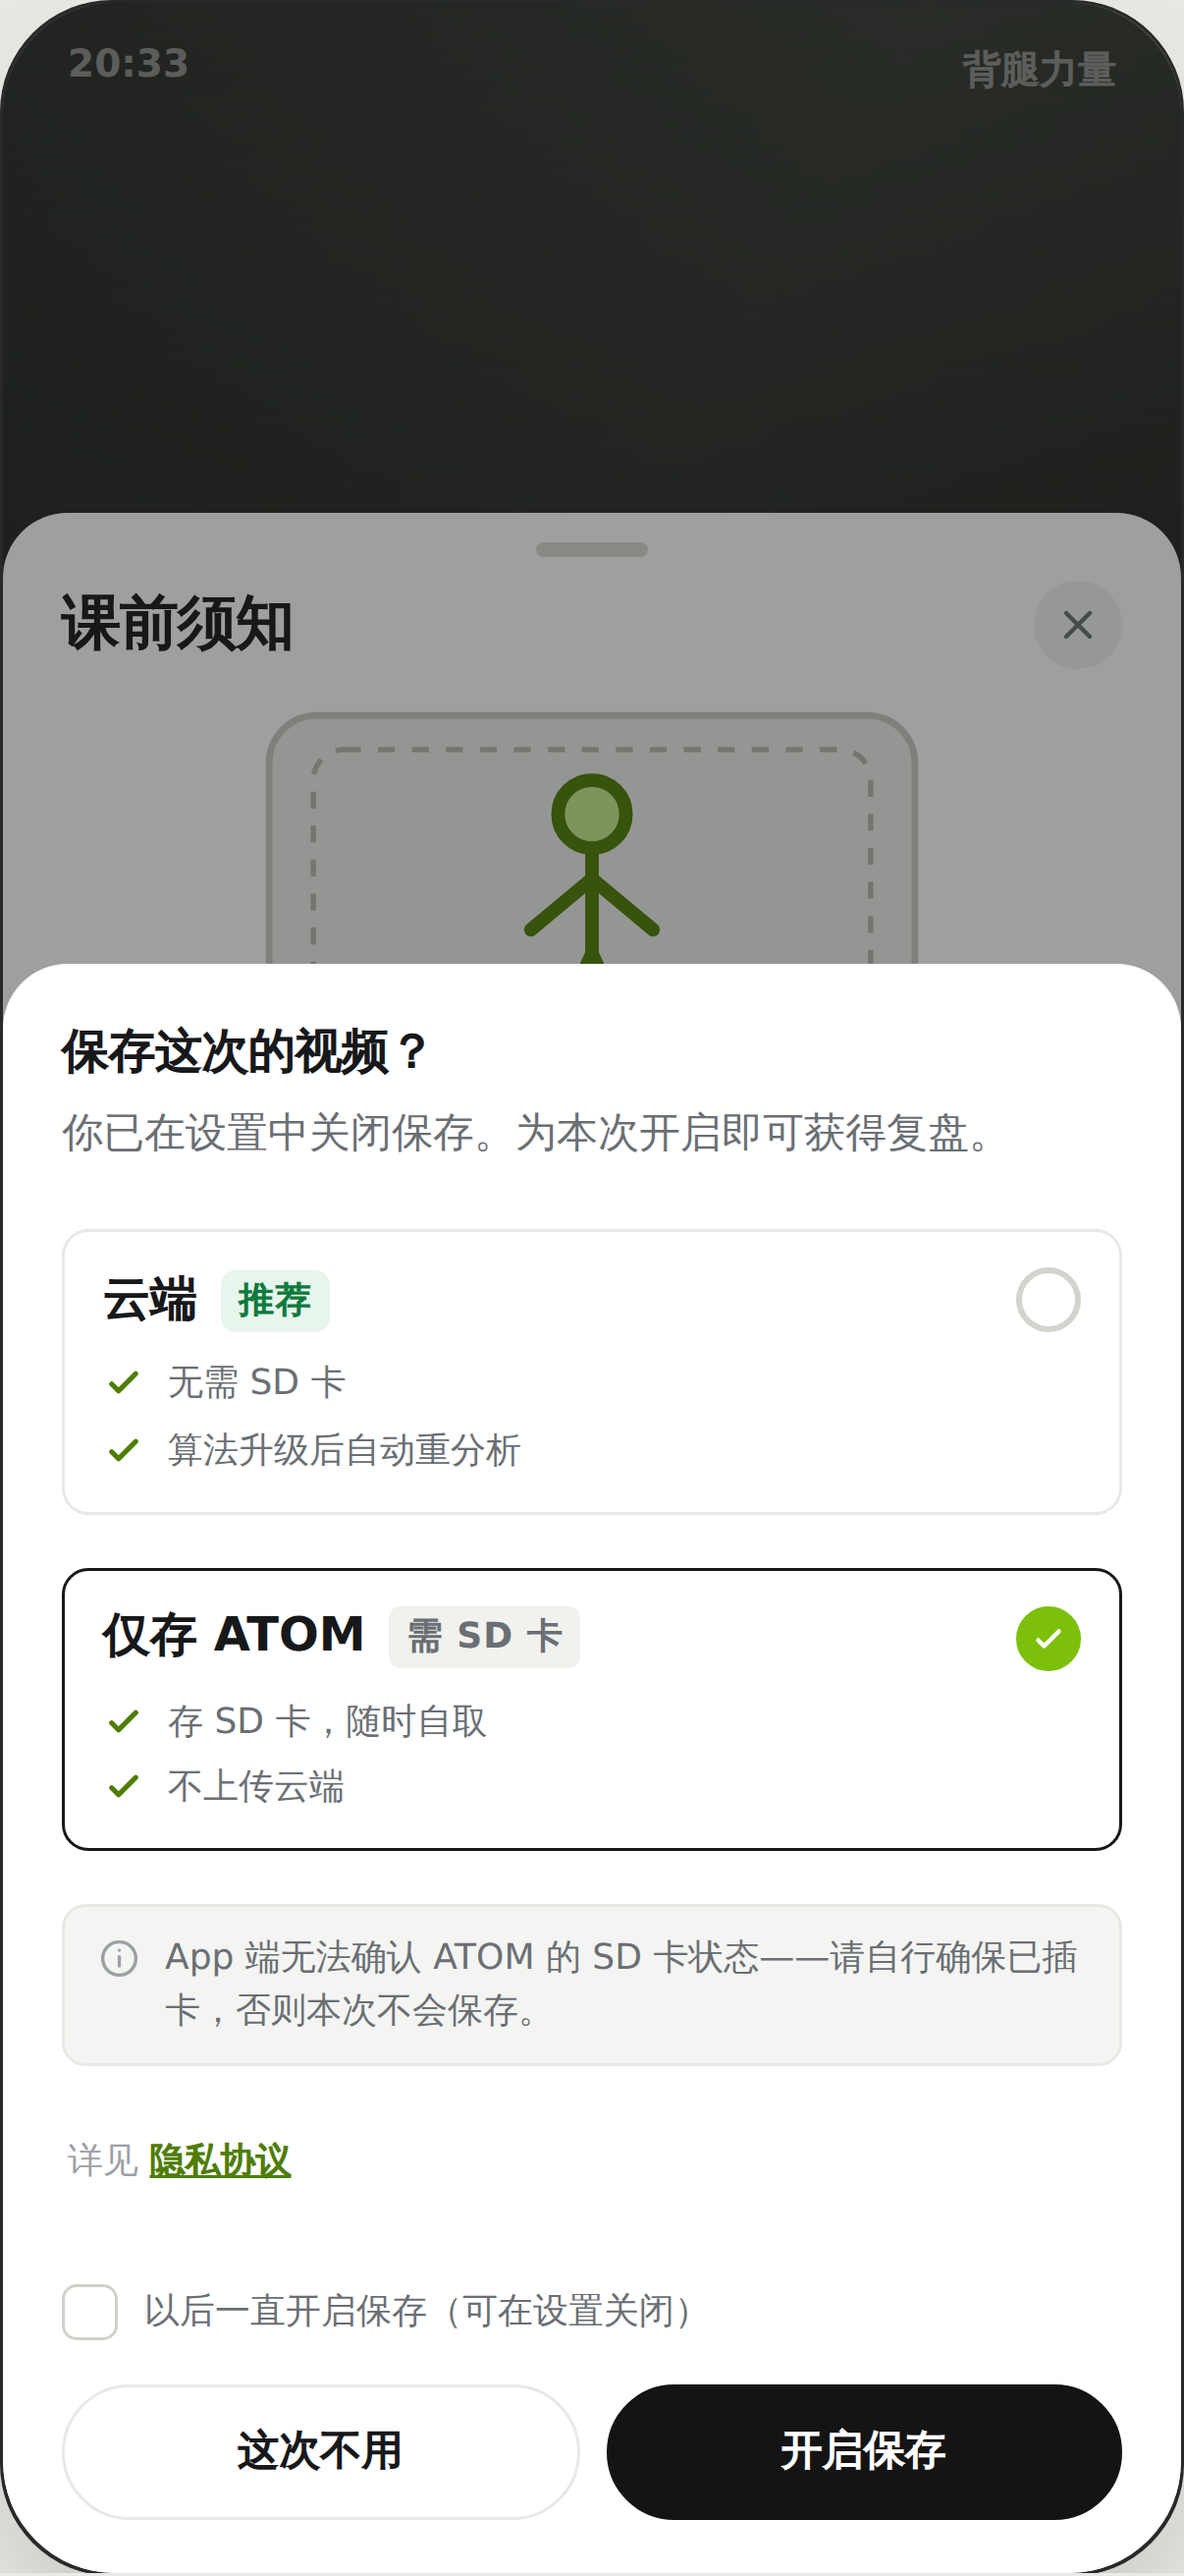
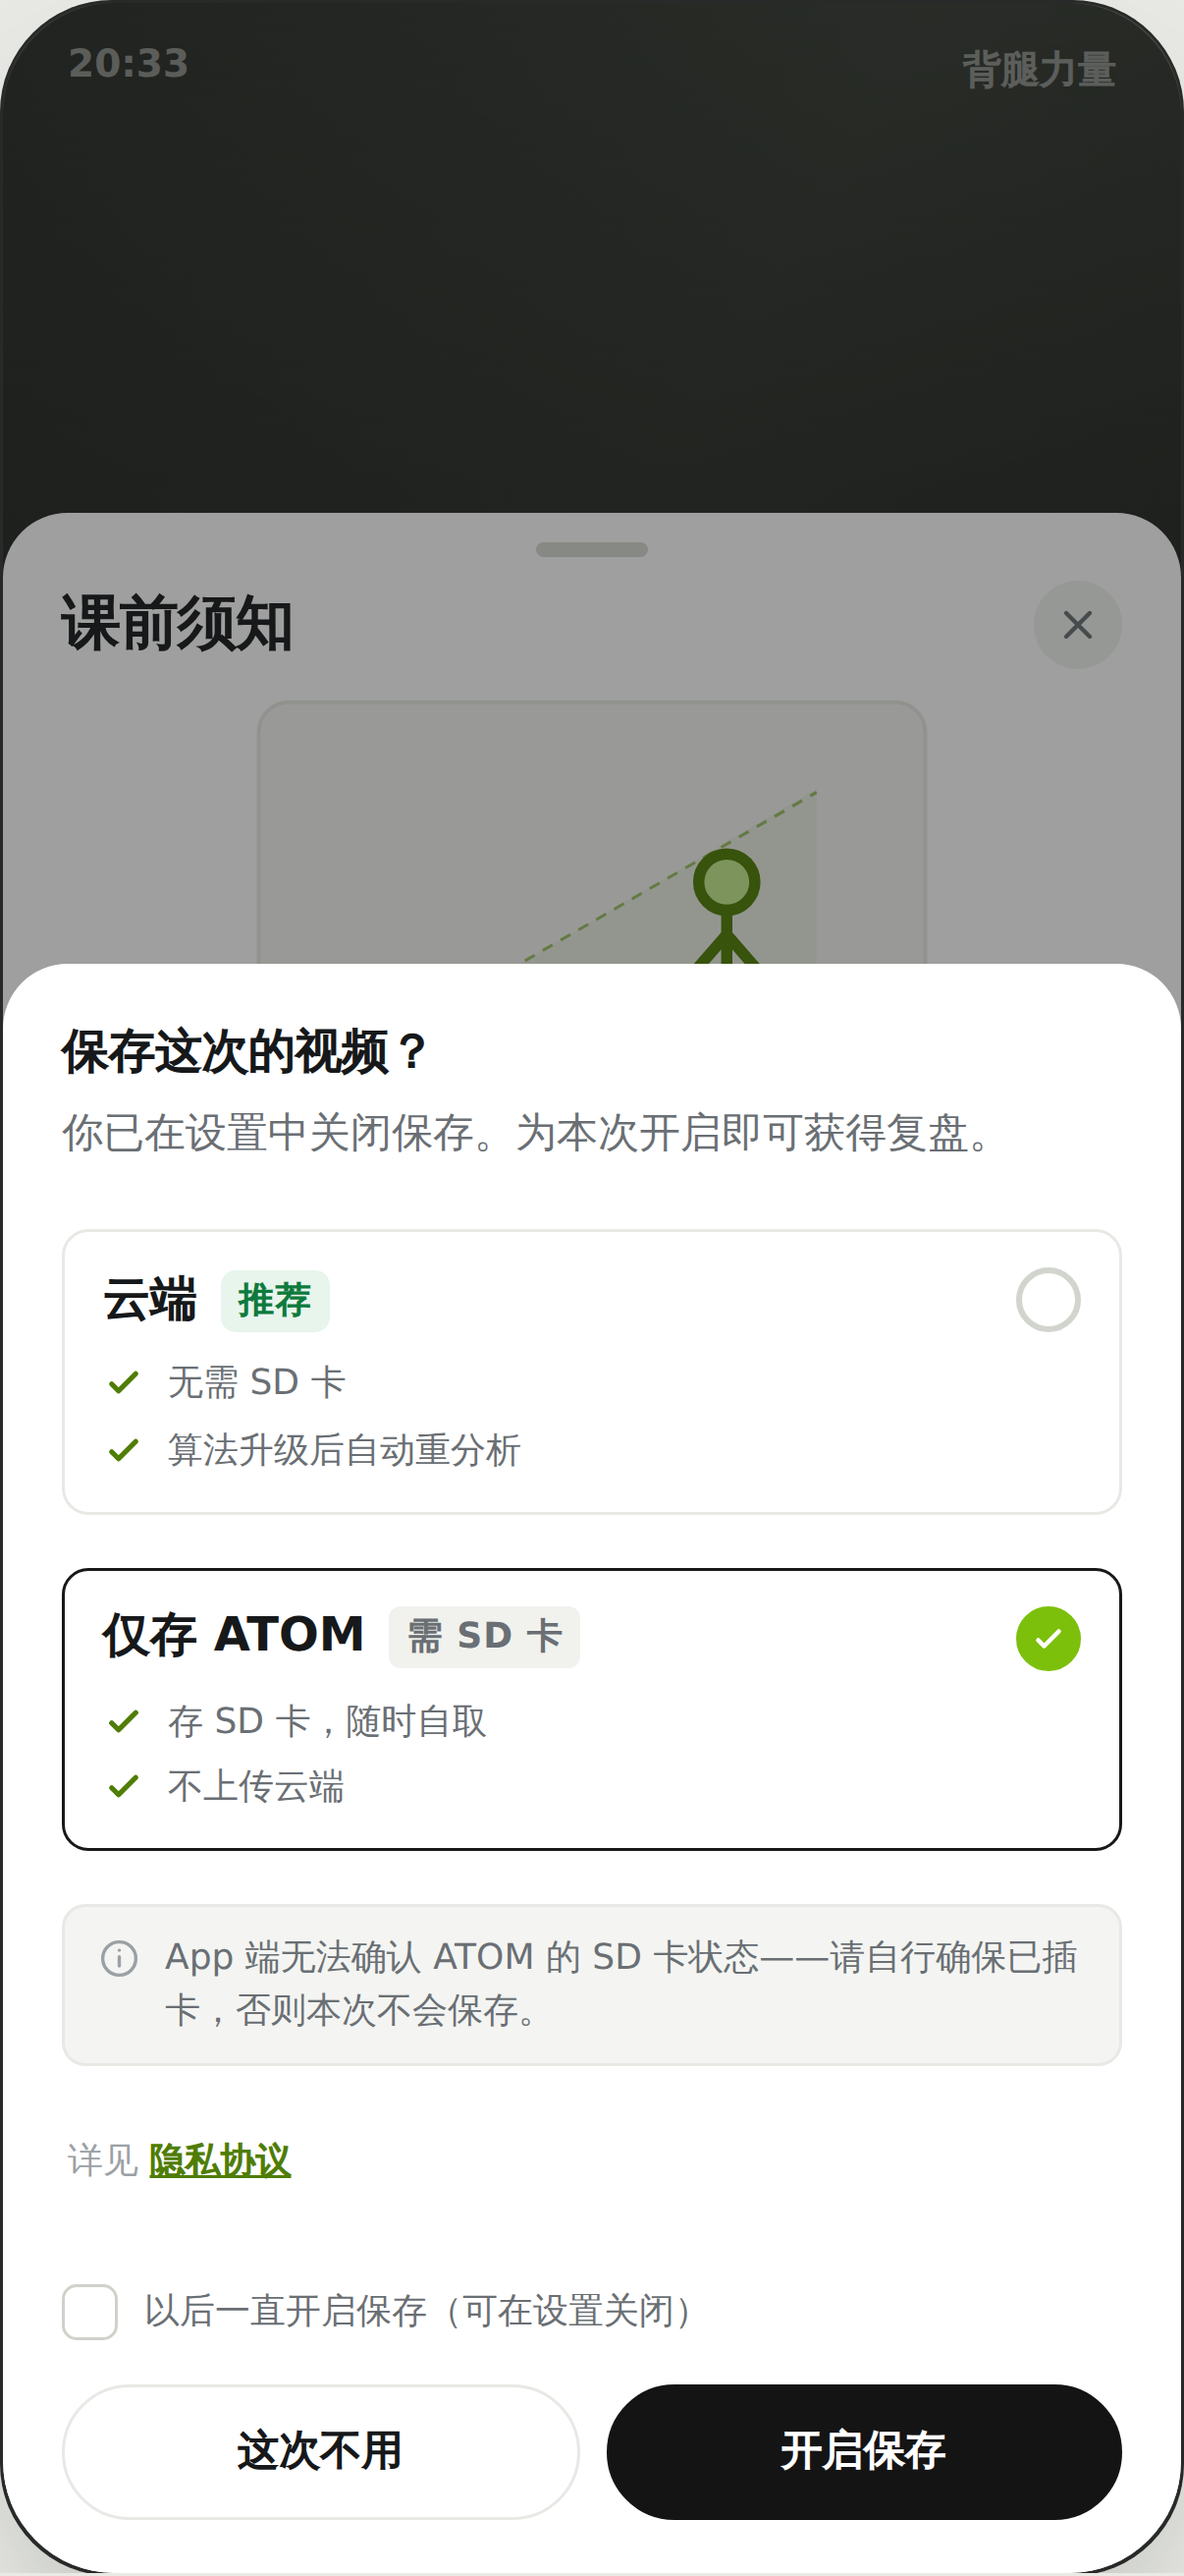
framing illustration → Concept B (side setup scene); slim the tips page
- Replace the placeholder 'figure in a frame' with a side-view setup diagram
  (Concept B): ATOM low on the floor tilted up (≈ knee), a view cone, the person
  standing back at 0.5–1 m, whole body in view. It teaches the actual setup —
  low placement + stand back — which users get wrong. Used on the notice hero
  and the tips page. Labels come from strings (frKnee/frDist) so they localize.
  FRAME_LIGHT const → FRAME(t) function. Still a placeholder vector for design
  to refine (marked in a comment).
- Tips page: drop the boxes around 'Crowd is fine' / 'Steady placement' — plain
  text sections now; the avoid list is un-boxed too. Lighter, more cohesive.

Docs already cover the image→text layout. Regenerate all mockups + boards.

diff --git a/prototype-课前模式选择.html b/prototype-课前模式选择.html
@@ -174,6 +174,11 @@
   /* tips page: plain lead paragraph under the image (was a green callout box) */
   .tipslead{font-size:14px;color:var(--ink-2);line-height:1.55;margin:14px 2px 4px;}
   .tipslead b{color:var(--ink);font-weight:700;}
+  /* plain (box-free) text section for the tips page */
+  .txtsec{margin-top:16px;padding:0 2px;}
+  .txtsec .tsh{display:flex;align-items:center;gap:7px;font-size:14px;font-weight:800;color:var(--ink);}
+  .txtsec .tsh svg{width:15px;height:15px;color:var(--ink-2);}
+  .txtsec .tsb{font-size:13px;color:var(--ink-2);line-height:1.5;margin-top:3px;}
   .dataopts{display:flex;gap:8px;margin-bottom:9px;}
   .dataopt{flex:1;display:flex;align-items:center;gap:7px;padding:11px 11px;border:1.5px solid var(--line);border-radius:12px;background:#fff;cursor:pointer;font-size:12px;font-weight:600;color:var(--ink-2);}
   .dataopt svg{width:16px;height:16px;flex:none;}
@@ -634,7 +639,7 @@
       pageTitle:'Get set up', psOk:"I'm ready", reach:'Keep your ATOM within reach.',
       pickT:'Which ATOM?', pickHint:'Pick the one next to you.',
       coachSub:'ATOM watches like a coach — set it up so it can see you clearly.',
-      coachDoH:'Set up',
+      coachDoH:'Set up', frKnee:'≈ knee', frDist:'0.5–1 m',
       coachDo:['Whole body in frame, centered','Set ATOM about knee height','Stand 0.5–1 m back','Face it front-on or side-on','Clear space — nothing blocking you'],
       coachAvoidH:'These hurt accuracy',
       coachAvoid:['Body cut off or off to one side','Too close or too far — aim for 0.5–1 m','ATOM tilted steeply up at you','Blocked by a bench, rack or barbell','Backlit, too dark, or heavy shadows'],
@@ -691,7 +696,7 @@
       pageTitle:'课前须知', psOk:'准备好了', reach:'让 ATOM 就在你的手边。',
       pickT:'使用哪一台 ATOM？', pickHint:'选择你身边的那台。',
       coachSub:'ATOM 就像教练的眼睛——摆好位置，让它看清你。',
-      coachDoH:'这样摆',
+      coachDoH:'这样摆', frKnee:'≈ 膝盖高', frDist:'0.5–1 米',
       coachDo:['全身入框，站在画面中央','ATOM 放到约膝盖高度','离 ATOM 0.5–1 米','正对或侧对镜头','周围留空，别被器械挡住'],
       coachAvoidH:'这些会影响识别',
       coachAvoid:['身体被裁切或偏到一边','太近或太远——0.5–1 米最好','ATOM 过度仰角对着你','被卧推凳、深蹲架或杠铃挡住','逆光、过暗，或阴影很重'],
@@ -779,7 +784,21 @@
   var PINI='<svg viewBox="0 0 24 24" fill="none" stroke="currentColor" stroke-width="1.8" stroke-linecap="round" stroke-linejoin="round"><path d="M12 21s7-6.2 7-11a7 7 0 0 0-14 0c0 4.8 7 11 7 11Z"/><circle cx="12" cy="10" r="2.3"/></svg>';
   var REPORTI='<svg viewBox="0 0 24 24" fill="none" stroke="currentColor" stroke-width="1.8" stroke-linecap="round" stroke-linejoin="round"><rect x="5" y="3" width="14" height="18" rx="2"/><path d="M9 8h6M9 12h6M9 16h4"/></svg>';
   var ALGOI='<svg viewBox="0 0 24 24" fill="none" stroke="currentColor" stroke-width="1.8" stroke-linecap="round" stroke-linejoin="round"><path d="M12 4v3M12 17v3M4 12h3M17 12h3M6.5 6.5l2 2M15.5 15.5l2 2M17.5 6.5l-2 2M8.5 15.5l-2 2"/></svg>';
-  var FRAME_LIGHT='<div class="frmwrap"><svg class="frm" viewBox="0 0 200 130" preserveAspectRatio="xMidYMid meet"><rect x="5" y="5" width="190" height="120" rx="14" fill="#eef0ec" stroke="#c9ccc3" stroke-width="2"/><rect x="18" y="15" width="164" height="100" rx="9" fill="none" stroke="#b7bbb0" stroke-width="1.6" stroke-dasharray="5 5"/><line x1="36" y1="104" x2="164" y2="104" stroke="#b7bbb0" stroke-width="2"/><g stroke="#4f7d05" stroke-width="4" fill="none" stroke-linecap="round" stroke-linejoin="round"><circle cx="100" cy="34" r="10" fill="#c9ec8f"/><path d="M100 44 V75"/><path d="M100 53 L82 68"/><path d="M100 53 L118 68"/><path d="M100 75 L87 103"/><path d="M100 75 L113 103"/></g></svg></div>';
+  // Framing illustration — Concept B "side setup scene": teaches the actual setup
+  // (ATOM low ≈ knee height, tilted up; view cone; stand back 0.5–1 m; whole body in view).
+  // ⚠ DESIGNER: placeholder vector — swap the figure/ATOM for final art; labels come from strings (frKnee/frDist), so they localize.
+  function FRAME(t){ return '<div class="frmwrap"><svg class="frm" viewBox="0 0 360 236" preserveAspectRatio="xMidYMid meet">'
+    +'<rect x="2" y="2" width="356" height="232" rx="16" fill="#f6f7f4" stroke="#e6e8e2" stroke-width="2"/>'
+    +'<line x1="26" y1="196" x2="334" y2="196" stroke="#b7bbb0" stroke-width="3"/>'
+    +'<path d="M66 186 L300 48 L300 194 Z" fill="#4f7d05" fill-opacity="0.06"/>'
+    +'<line x1="68" y1="184" x2="300" y2="50" stroke="#9bbf63" stroke-width="1.6" stroke-dasharray="6 5"/>'
+    +'<line x1="68" y1="188" x2="300" y2="192" stroke="#9bbf63" stroke-width="1.6" stroke-dasharray="6 5"/>'
+    +'<g transform="translate(58,186) rotate(-20)"><rect x="-17" y="-13" width="34" height="22" rx="6" fill="#2b2d2c"/><circle cx="12" cy="-2.5" r="5" fill="none" stroke="#c9ec8f" stroke-width="2.6"/></g>'
+    +'<text x="52" y="172" text-anchor="middle" fill="#6a6f74" font-size="12.5" font-weight="700">'+t.frKnee+'</text>'
+    +'<g stroke="#4f7d05" stroke-width="6" fill="none" stroke-linecap="round" stroke-linejoin="round"><circle cx="252" cy="98" r="15" fill="#c9ec8f"/><path d="M252 113 V162"/><path d="M252 126 L232 149"/><path d="M252 126 L272 149"/><path d="M252 162 L236 194"/><path d="M252 162 L268 194"/></g>'
+    +'<g stroke="#8a8f86" stroke-width="1.6"><line x1="66" y1="214" x2="252" y2="214"/><line x1="66" y1="209" x2="66" y2="219"/><line x1="252" y1="209" x2="252" y2="219"/></g>'
+    +'<text x="159" y="230" text-anchor="middle" fill="#6a6f74" font-size="14" font-weight="700">'+t.frDist+'</text>'
+    +'</svg></div>'; }
   var CLOUDI='<svg viewBox="0 0 24 24" fill="none" stroke="currentColor" stroke-width="1.8" stroke-linecap="round" stroke-linejoin="round"><path d="M7 18a4 4 0 0 1-.5-7.97 5 5 0 0 1 9.6-1.3A3.5 3.5 0 0 1 17.5 18H7Z"/></svg>';
   var SDI='<svg viewBox="0 0 24 24" fill="none" stroke="currentColor" stroke-width="1.8" stroke-linecap="round" stroke-linejoin="round"><path d="M7 3h7l4 4v12a2 2 0 0 1-2 2H7a2 2 0 0 1-2-2V5a2 2 0 0 1 2-2Z"/><path d="M10 3v3M12.5 3v3M15 3v3"/></svg>';
   var INFOI='<svg viewBox="0 0 24 24" fill="none" stroke="currentColor" stroke-width="1.8" stroke-linecap="round" stroke-linejoin="round"><circle cx="12" cy="12" r="9"/><path d="M12 11v5M12 7.5h.01"/></svg>';
@@ -795,6 +814,7 @@
   function _info2(rows){ return '<div class="infobox stack">'+rows.map(function(r){return '<div class="ir"><div class="ih">'+r[0]+'<span>'+r[1]+'</span></div><span>'+r[2]+'</span></div>';}).join('')+'</div>'; }
   function _infoW(icon,h,txt){ return '<div class="infobox warn"><div class="ih">'+icon+'<span>'+h+'</span></div><span>'+txt+'</span></div>'; }
   function _avoidbox(icon,h,items){ return '<div class="infobox"><div class="ih warntone">'+icon+'<span>'+h+'</span></div>'+_avoid(items)+'</div>'; }
+  function _txtsec(icon,h,txt){ return '<div class="txtsec"><div class="tsh">'+icon+'<span>'+h+'</span></div><div class="tsb">'+txt+'</div></div>'; }
   function _datarow(t){
     if(!saving()){
       return '<div class="dataline off" id="ps-datarow"><span>'+t.drSaveOff+'</span><span class="drchange allow">'+t.drTurnOn+'</span></div>';
@@ -818,13 +838,13 @@
     var recapNeedsSave = (mode==='recap' && !saving());
     // Image first → text → boxed hints (consistent rhythm with the tips page).
     if(mode==='coach'){
-      h+=FRAME_LIGHT
+      h+=FRAME(t)
         +'<div class="pagesub">'+t.coachSub+'</div>'
         +_do(t.coachDo)
         +_tipslink(t)
         +'<div class="caution" style="margin-top:14px">'+WARNI+'<span>'+t.beta+'</span></div>';
     } else {
-      h+=FRAME_LIGHT+'<div class="pagesub">'+t.recapSub+'</div>';
+      h+=FRAME(t)+'<div class="pagesub">'+t.recapSub+'</div>';
       if(recapNeedsSave) h+=_infoW(WARNI,t.recapNeedH,t.recapNeed);   // hard requirement, not just "no report"
       else h+=_info(REPORTI,t.reportH,t.report)+_info(ALGOI,t.algoH,t.algo);
     }
@@ -843,11 +863,12 @@
   function showTips(){
     var t=T[LANG];
     tipsT.textContent=t.tipsTitle;
-    // Layout: ① image → ② plain lead text → ③ line-boxed hints (cohesive rhythm).
-    tipsBody.innerHTML=FRAME_LIGHT
+    // Layout: ① image → ② plain lead text → ③ plain text sections (no boxes, keep it light).
+    tipsBody.innerHTML=FRAME(t)
       +'<div class="tipslead">'+t.coachLine+'</div>'
-      +_info2([[PEOPLEI,t.crowdH,t.crowd],[TRIPODI,t.tripodH,t.tripod]])
-      +_avoidbox(WARNI,t.coachAvoidH,t.coachAvoid);
+      +_txtsec(PEOPLEI,t.crowdH,t.crowd)
+      +_txtsec(TRIPODI,t.tripodH,t.tripod)
+      +_sec(t.coachAvoidH,true)+_avoid(t.coachAvoid);
     tips.classList.add('show'); tipsBody.scrollTop=0;
   }
   document.getElementById('tips-back').onclick=function(){ tips.classList.remove('show'); };
